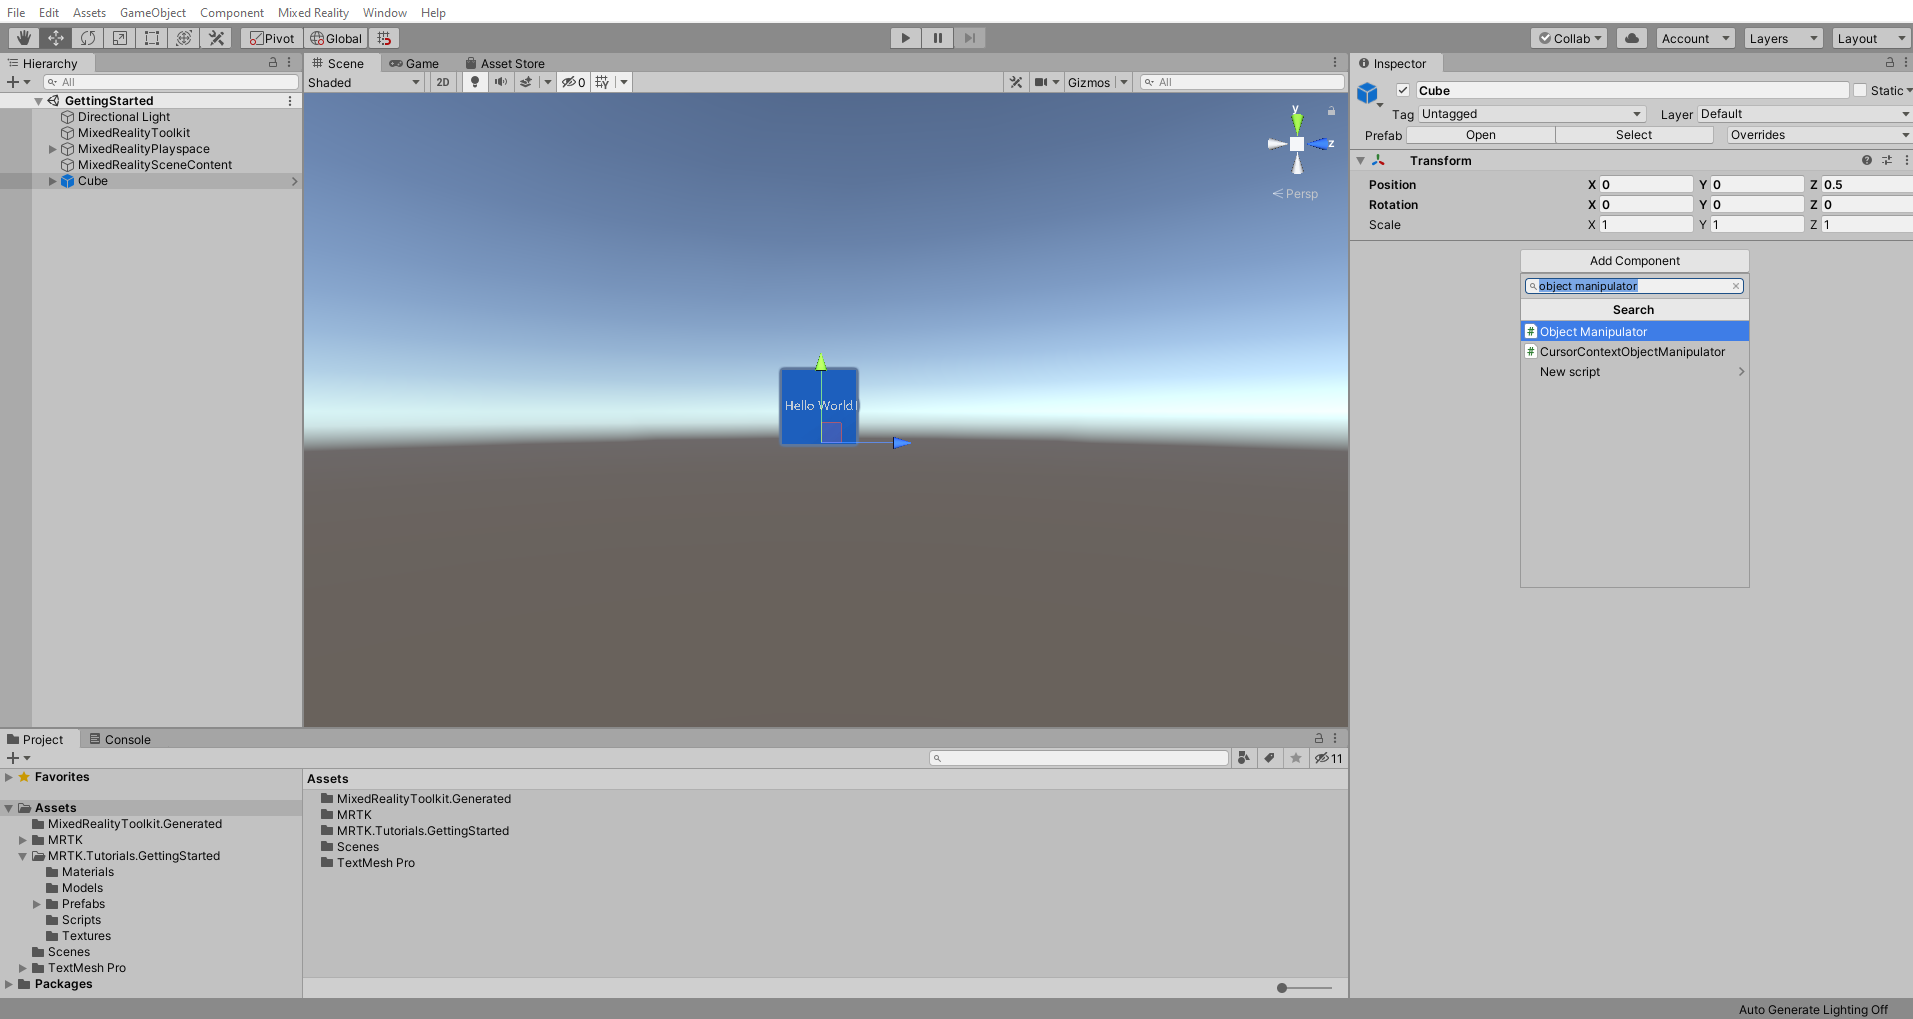
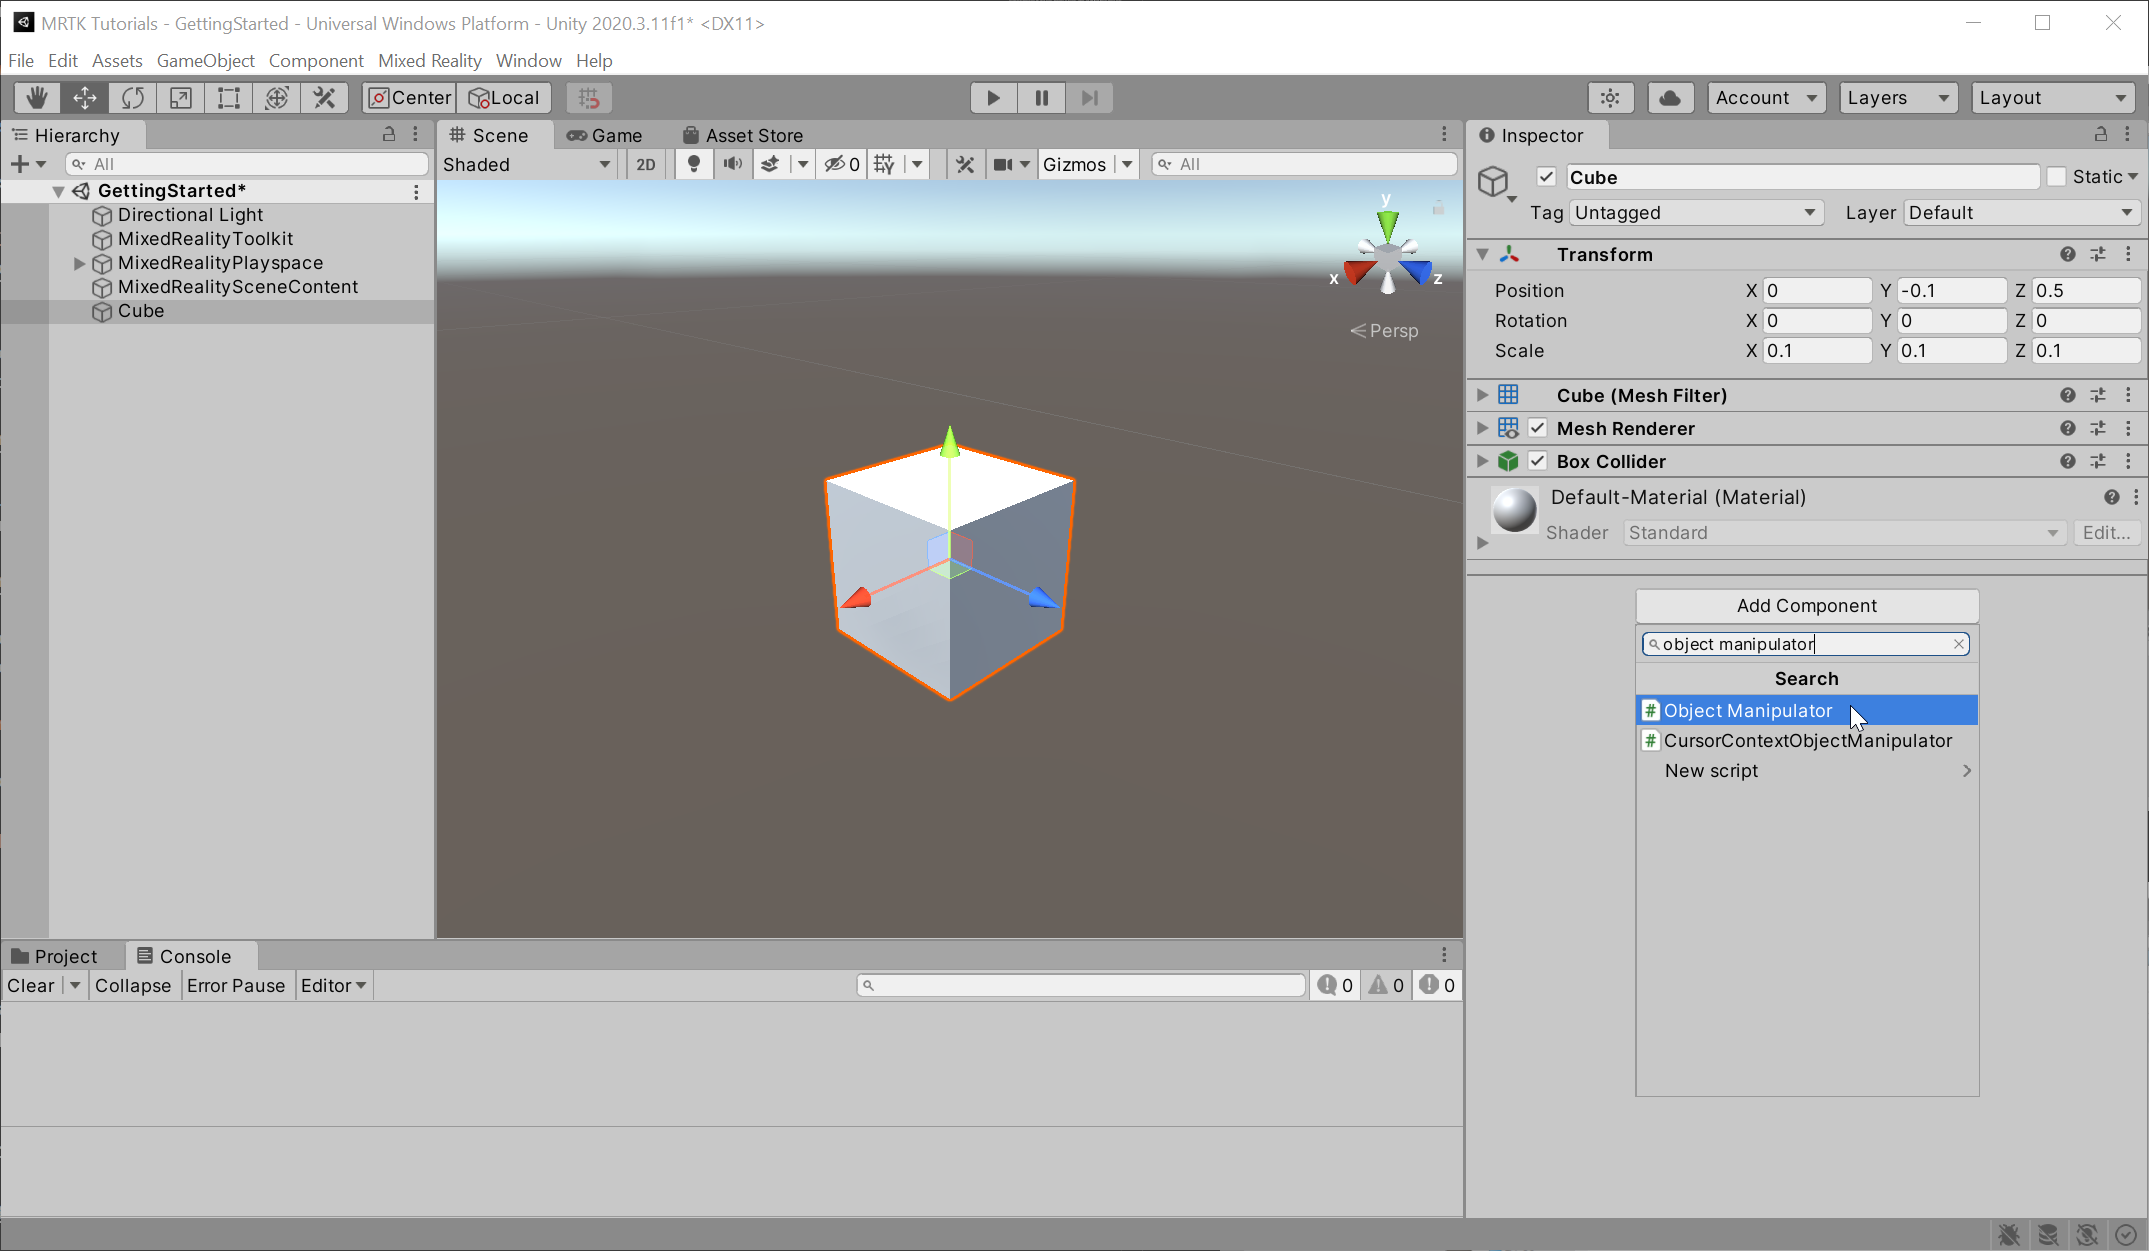
Tutorial polish - Input simulation, screenshots, Unity cube, etc.

diff --git a/mixed-reality-docs/mr-dev-docs/develop/unity/tutorials/mr-learning-base-02.md b/mixed-reality-docs/mr-dev-docs/develop/unity/tutorials/mr-learning-base-02.md
@@ -131,43 +131,32 @@ Save the scene in you project under **Asset** > **Scenes**.
 
 ![Unity save scene Save prompt window](images/mr-learning-base/base-02-section6-step1-5.png)
 
-## Importing the tutorial assets
+## Adding hand interaction to an object
 
-Download the following Unity custom package:
+In the Unity menu, select **GameObject** > **3D Object** > **Cube** to add a cube object to the scene.
 
-* [MRTK.HoloLens2.Unity.Tutorials.Assets.GettingStarted.2.5.0.1.unitypackage](https://github.com/microsoft/MixedRealityLearning/releases/download/getting-started-v2.5.0/MRTK.HoloLens2.Unity.Tutorials.Assets.GettingStarted.2.5.0.1.unitypackage)
+![Adding cube to the Scene](images/mr-learning-base/base-02-section8-step1-1.png)
 
-To Import a Unity custom package, In the Unity menu, select **Assets** > **Import Package** > **Custom Package...** to open the Import package... window:
+Click the **Cube** object in the Hierarchy window, then in the Inspector window configure its **Transform** component as follows
 
-![Importing a custom package](images/mr-learning-base/base-02-section7-step1-1.png)
-
-In the Import package... window, select the **MRTK.HoloLens2.Unity.Tutorials.Assets.GettingStarted.2.5.0.1.unitypackage** you downloaded and click the Open button:
-
-![Selecting an asset package](images/mr-learning-base/base-02-section7-step1-2.png)
-
-In the Import Unity Package window, click the All button to ensure all the assets are selected, then click the Import button to import the assets:
-
-![Selecting all the assets to import](images/mr-learning-base/base-02-section7-step1-3.png)
-
-After you have imported the tutorial assets your Project window should look similar to this:
-
-![Unity project window after importing assets](images/mr-learning-base/base-02-section7-step1-4.png)
-
-## Configuring the Scene
-
-In the Project window, navigate to the **Assets** > **MRTK.Tutorials.GettingStarted** > **Prefabs** folder:
-
-From the Project window, click-and-drag the **Cube** prefab on to the Hierarchy window, then in the Inspector window configure its **Transform** component as follows
-
-* **Position**: X = 0, Y = 0, Z = 0.5
+* **Position**: X = 0, Y = -0.1, Z = 0.5
 * **Rotation**: X = 0, Y = 0, Z = 0
-* **Scale**: X = 1, Y = 1, Z = 1
+* **Scale**: X = 0.1, Y = 0.1, Z = 0.1
 
-![Adding cube to the Scene](images/mr-learning-base/base-02-section8-step1-1.PNG)
+1 Unity unit is 1 meter. We have updated cube's size to 10x10x10 cm, placed 50cm from the headset position (0,0,0). 10cm below the eye level for comfortable interaction. 
 
-To focus in on the objects in the scene, you can double-click on the **Cube** object, and then zoom slightly in again:
+If you use the default scale (1,1,1), the cube will be to big. If you use the default position (0,0,0), the cube will be placed at the same position as your headset and you won't be able to see it until you move backward.
 
-To interact and grab an object with tracked hands, the object must have Collider component for example a **Box Collider**,  **Object Manipulator (Script)** component and **NearInteractionGrabbable(Script)** component.
+![Adjusting transform information](images/mr-learning-base/base-02-section8-step1-1b.png)
+
+To focus in on the objects in the scene, you can double-click on the **Cube** object, and then zoom slightly in again. Or you can use F key to zoom and focus on the object.
+
+To interact and grab an object with tracked hands, the object must have:
+ * Collider component such as **Box Collider** (Unity's cube already has a Box Collider by default)
+ * **Object Manipulator (Script)** component
+ * **NearInteractionGrabbable(Script)** component
+
+MRTK's **ObjectManipulator** script makes an object movable, scalable, and rotatable using one or two hands. This script supports the direct manipulation input model as the script enables the user to touch holograms directly with their hands.
 
 With the **Cube** still selected in the Hierarchy window, in the Inspector window ,click on **Add Component** button, then search and select **Object Manipulator** script to add the Object Manipulator script to the cube object.
 
@@ -180,12 +169,20 @@ Repeat the same to add **Near Interaction Grabbable script** to the cube
 > [!NOTE]
 > When you add a Object Manipulator (Script), in this case, the Constraint Manager (Script) is automatically added because Object Manipulator (Script) depends on it.
 
-> [!NOTE]
-> For the purpose of this tutorial, colliders have already been added to the Cube Object. To learn more about colliders, you can visit Unity's <a href="https://docs.unity3d.com/Manual/CollidersOverview.html" target="_blank">Collider</a> documentation.
+## Testing your application in Unity editor with MRTK input simulation
 
-To test this in the Unity editor, you can enter the play mode and hold the **LeftShift** or **Space** key to enable the controller, Mouse movement will move the controller and also it can be moved further or closer to the camera using the mouse wheel. Once the pointer is on the Cube  press and hold **Left Mouse Button** to move the the Cube object.
+With MRTK's input simulation, you can test various types of interactions in the Unity editor without building and deploying to a device. This allows you quickly iterate your ideas in the design and development process. Use keyboard and mouse combinations to control simulated inputs.
 
-![Game Mode](images/mr-learning-base/base-02-section8-step1-4.PNG)
+Click the play button and enter the play mode. Hold the **Left Shift** or **Space** key to bring up the controller (simulated hands), Mouse movement will move the controller and also it can be moved further or closer to the camera using the mouse wheel. Once the pointer is on the Cube press and hold **Left Mouse Button** to grab the Cube object.
+
+* Press **W, A, S, D, Q, E** keys to move the camera.
+* Hold the **Right mouse button** and move the mouse to look around.
+* To bring up the simulated hands, press **Space bar(Right hand)** or **Left Shift key(Left hand)**
+* To keep simulated hands in the view, press **T** or **Y** key
+* To rotate simulated hands, press and hold **Ctrl** key and move mouse
+
+![Game Mode](images/mr-learning-base/base-02-section8-step1-4.gif)
+
 
 ## Building your application to your HoloLens 2
 

diff --git a/mixed-reality-docs/mr-dev-docs/develop/unity/tutorials/mr-learning-base-04.md b/mixed-reality-docs/mr-dev-docs/develop/unity/tutorials/mr-learning-base-04.md
@@ -20,6 +20,28 @@ In this tutorial, you will position the provided objects from the tutorial asset
 * Learn how to position objects in the scene
 * Learn how to use MRTK's Grid Object Collection feature
 
+## Importing the tutorial assets
+
+Download the following Unity custom package. This package includes 3D assets such as Mars Rover that we are going to use in this tutorial.
+
+* [MRTK.HoloLens2.Unity.Tutorials.Assets.GettingStarted.2.5.0.1.unitypackage](https://github.com/microsoft/MixedRealityLearning/releases/download/getting-started-v2.5.0/MRTK.HoloLens2.Unity.Tutorials.Assets.GettingStarted.2.5.0.1.unitypackage)
+
+To Import a Unity custom package, In the Unity menu, select **Assets** > **Import Package** > **Custom Package...** to open the Import package... window:
+
+![Importing a custom package](images/mr-learning-base/base-02-section7-step1-1.png)
+
+In the Import package... window, select the **MRTK.HoloLens2.Unity.Tutorials.Assets.GettingStarted.2.5.0.1.unitypackage** you downloaded and click the Open button:
+
+![Selecting an asset package](images/mr-learning-base/base-02-section7-step1-2.png)
+
+In the Import Unity Package window, click the All button to ensure all the assets are selected, then click the Import button to import the assets:
+
+![Selecting all the assets to import](images/mr-learning-base/base-02-section7-step1-3.png)
+
+After you have imported the tutorial assets your Project window should look similar to this:
+
+![Unity project window after importing assets](images/mr-learning-base/base-02-section7-step1-4.png)
+
 ## Creating the parent object
 
 In the Hierarchy window, right-click on an empty spot, and select **Create Empty** to add an empty object to your scene:
